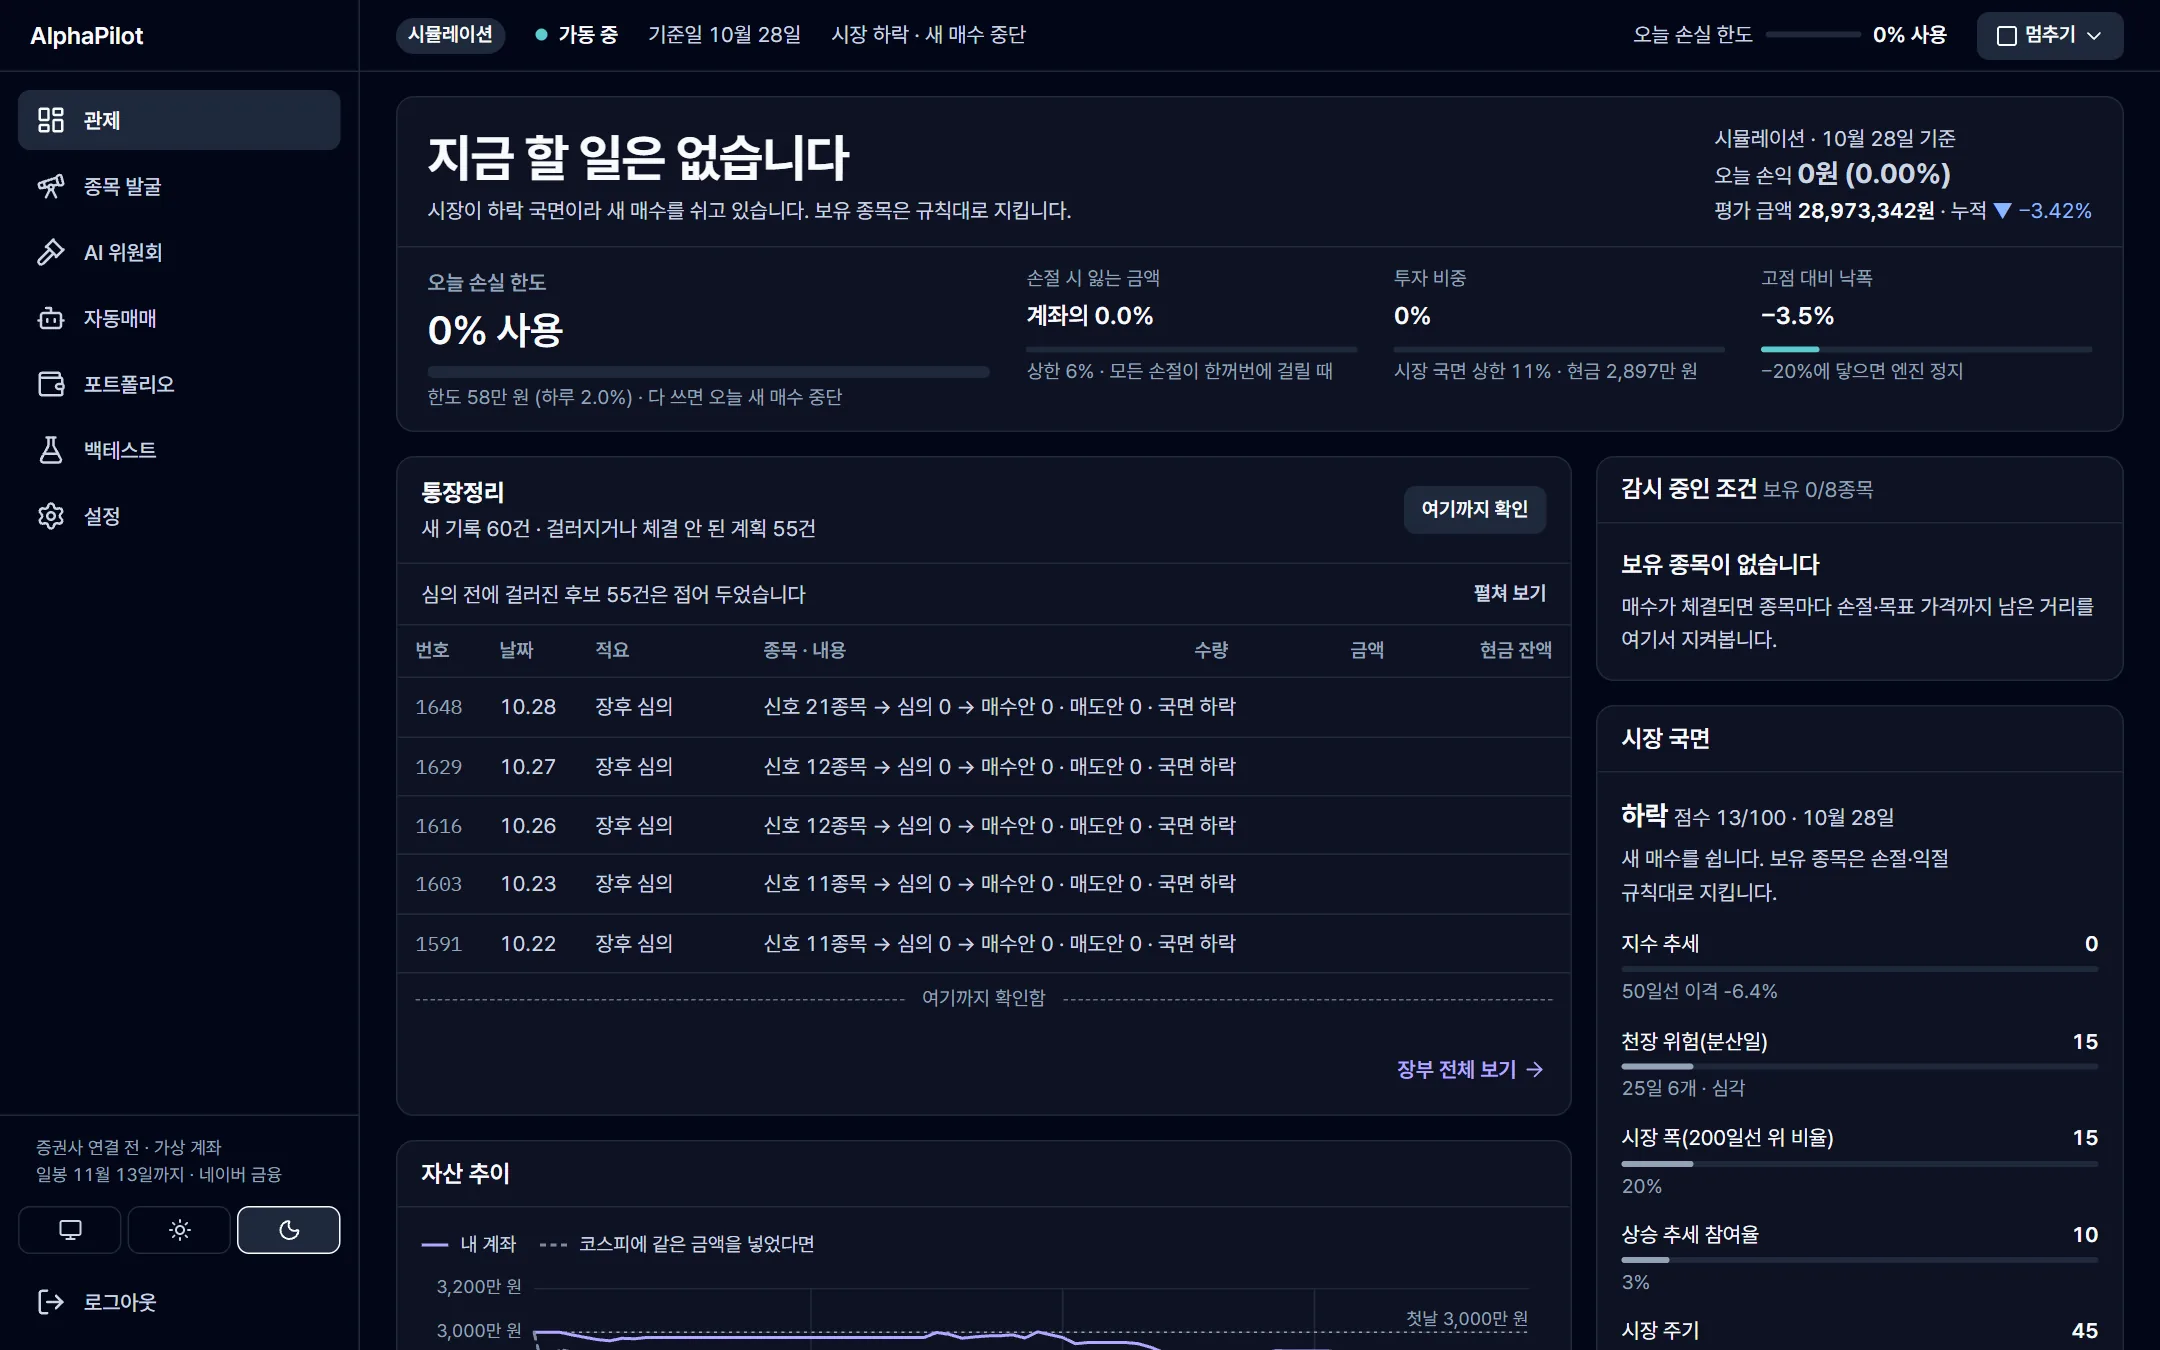
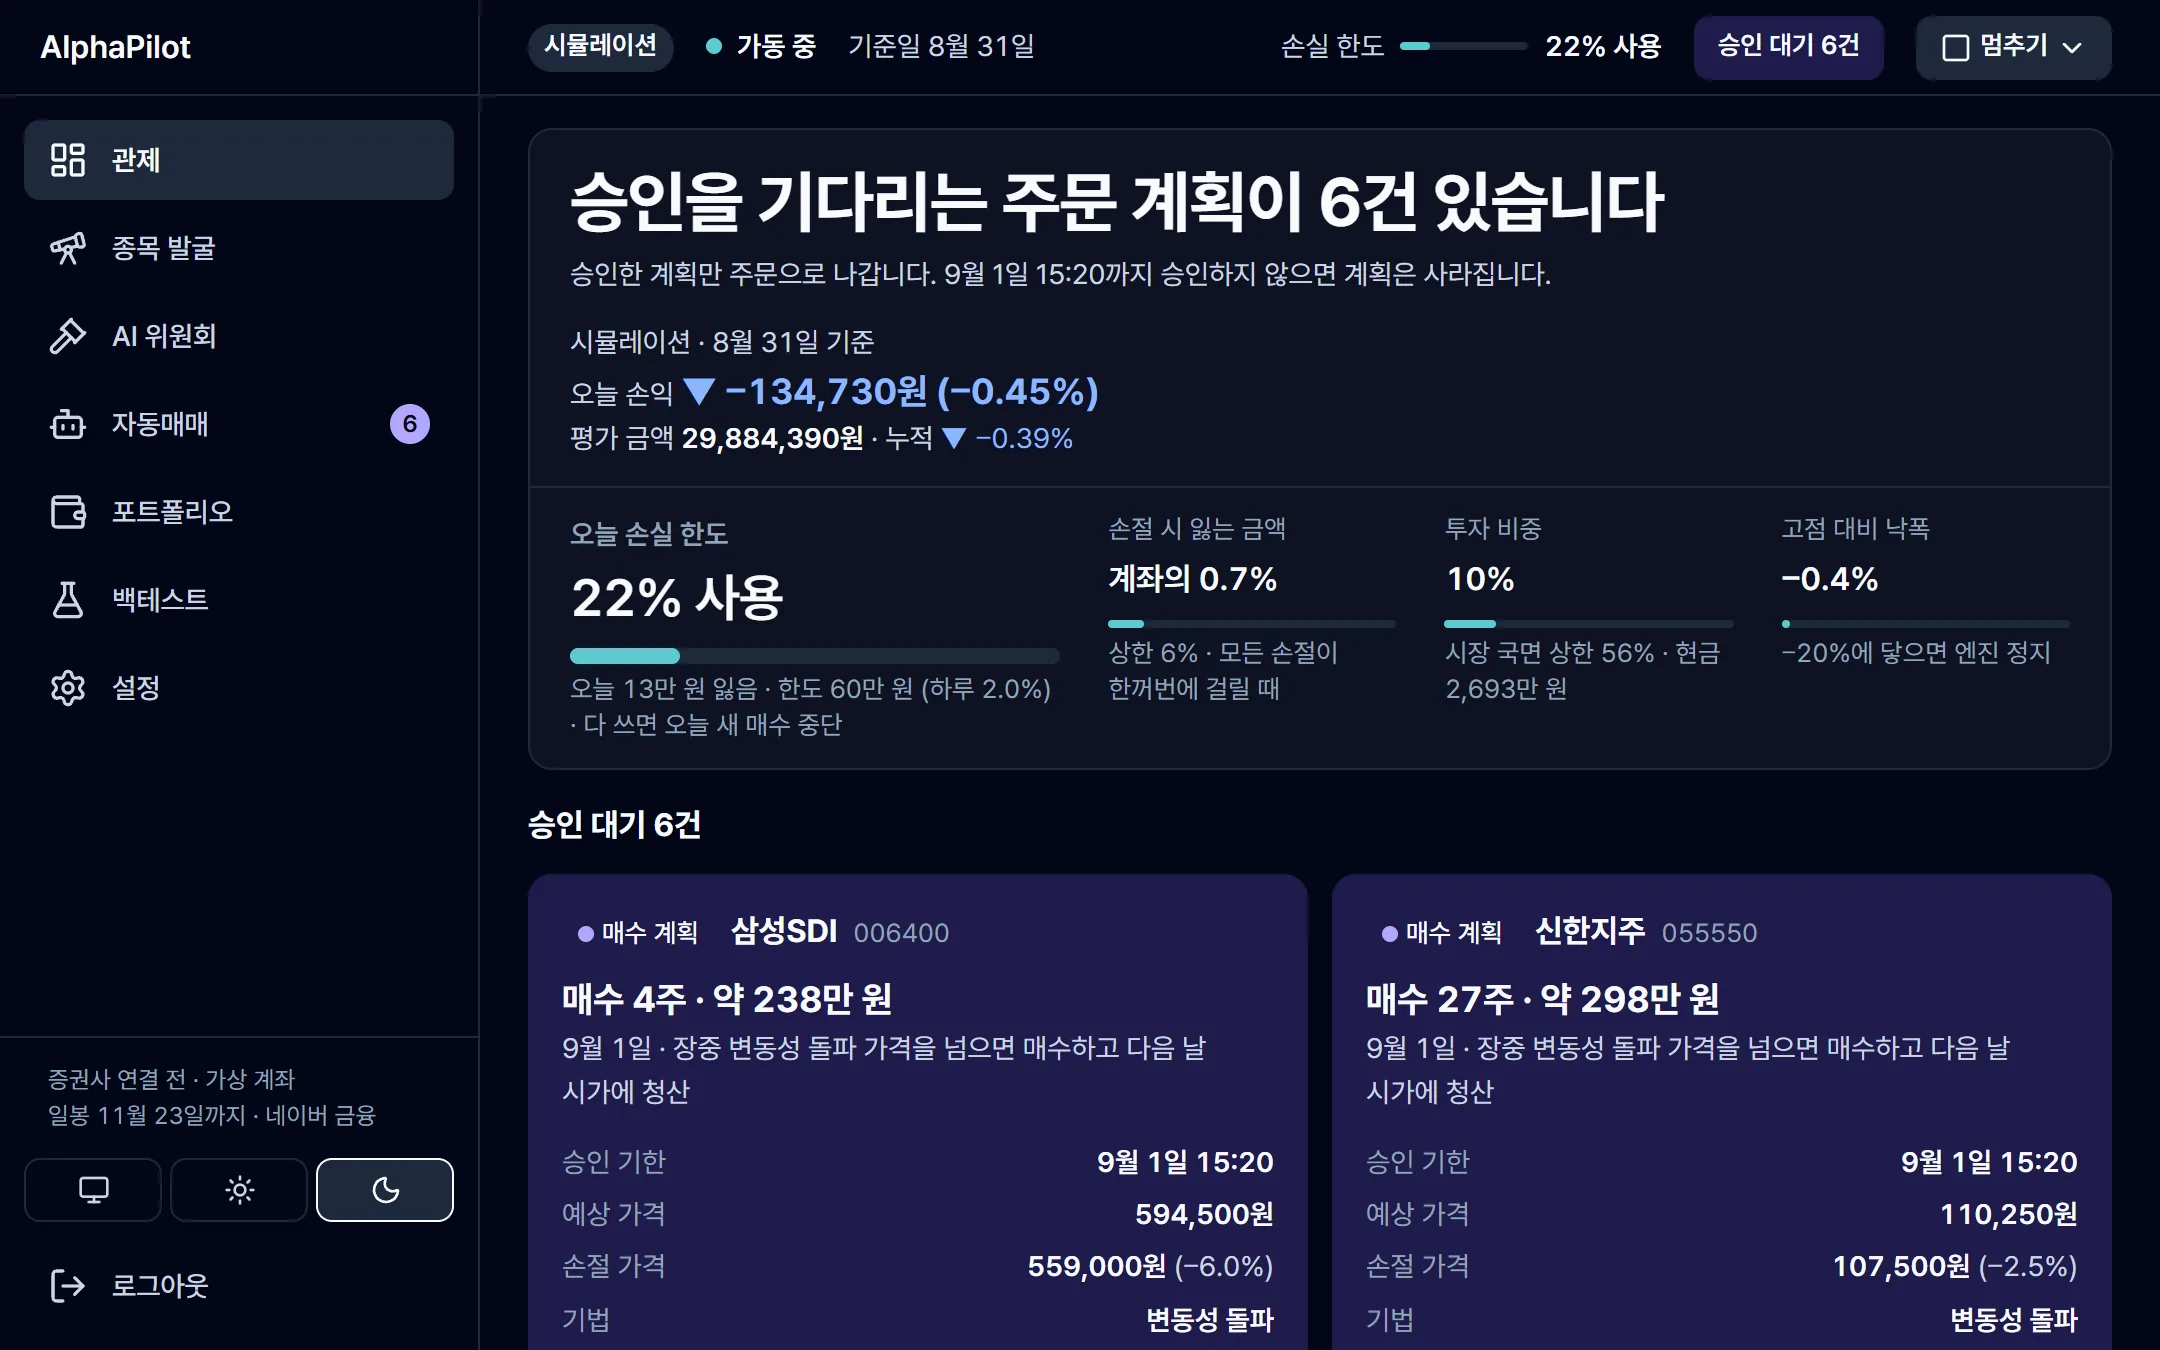
랜딩 캡처 새로 찍기: 승인 대기와 보유가 있는 관제 화면
- 빈 관제 화면(거래 0건) 대신 8월 31일 시뮬레이션(보유 4종목, 승인 대기 6건) 화면으로 밝은·어두운 × 데스크톱·모바일 4장 교체
- 그림 설명(alt)과 옆 설명 목록을 캡처 내용(승인 대기, 손실 한도, 장부)에 맞춤

diff --git a/frontend/src/features/landing/Landing.tsx b/frontend/src/features/landing/Landing.tsx
@@ -433,8 +433,8 @@ function Product() {
           <dl className="mt-8 divide-y divide-divider border-y border-divider">
             {[
               ["승인 대기", "주문 계획마다 수량과 근거를 보고 승인하거나 거절합니다."],
+              ["손실 한도", "오늘 쓸 수 있는 손실과 투자 비중을 계기로 먼저 보여 줍니다. 한도를 다 쓰면 그날 새 매수를 멈춥니다."],
               ["장부", "산 것, 판 것, 사지 않은 이유까지 번호를 매겨 남깁니다. 지우거나 고칠 수 없습니다."],
-              ["판단 사슬", "거래번호를 누르면 그 종목이 거친 단계를 처음부터 따라갑니다."],
             ].map(([term, text]) => (
               <div key={term} className="grid grid-cols-[6.5em_1fr] gap-x-4 py-4">
                 <dt className="text-body-sm font-semibold text-ink">{term}</dt>
@@ -452,7 +452,7 @@ function Product() {
               height={1350}
               loading="lazy"
               decoding="async"
-              alt="관제 화면: 오늘 판정, 손실 한도와 투자 비중 계기, 통장정리(장부), 감시 중인 조건, 시장 국면이 한 화면에 있다. 시뮬레이션 데이터로 찍었다."
+              alt="관제 화면: 맨 위에 승인을 기다리는 주문 계획 6건이라는 판정, 그 아래 오늘 손실 한도·손절 시 잃는 금액·투자 비중·낙폭 계기, 종목별 승인 카드(수량, 예상 가격, 손절 가격, 기법)가 있다. 시뮬레이션 데이터로 찍었다."
               className="block h-auto w-full"
             />
           </picture>
